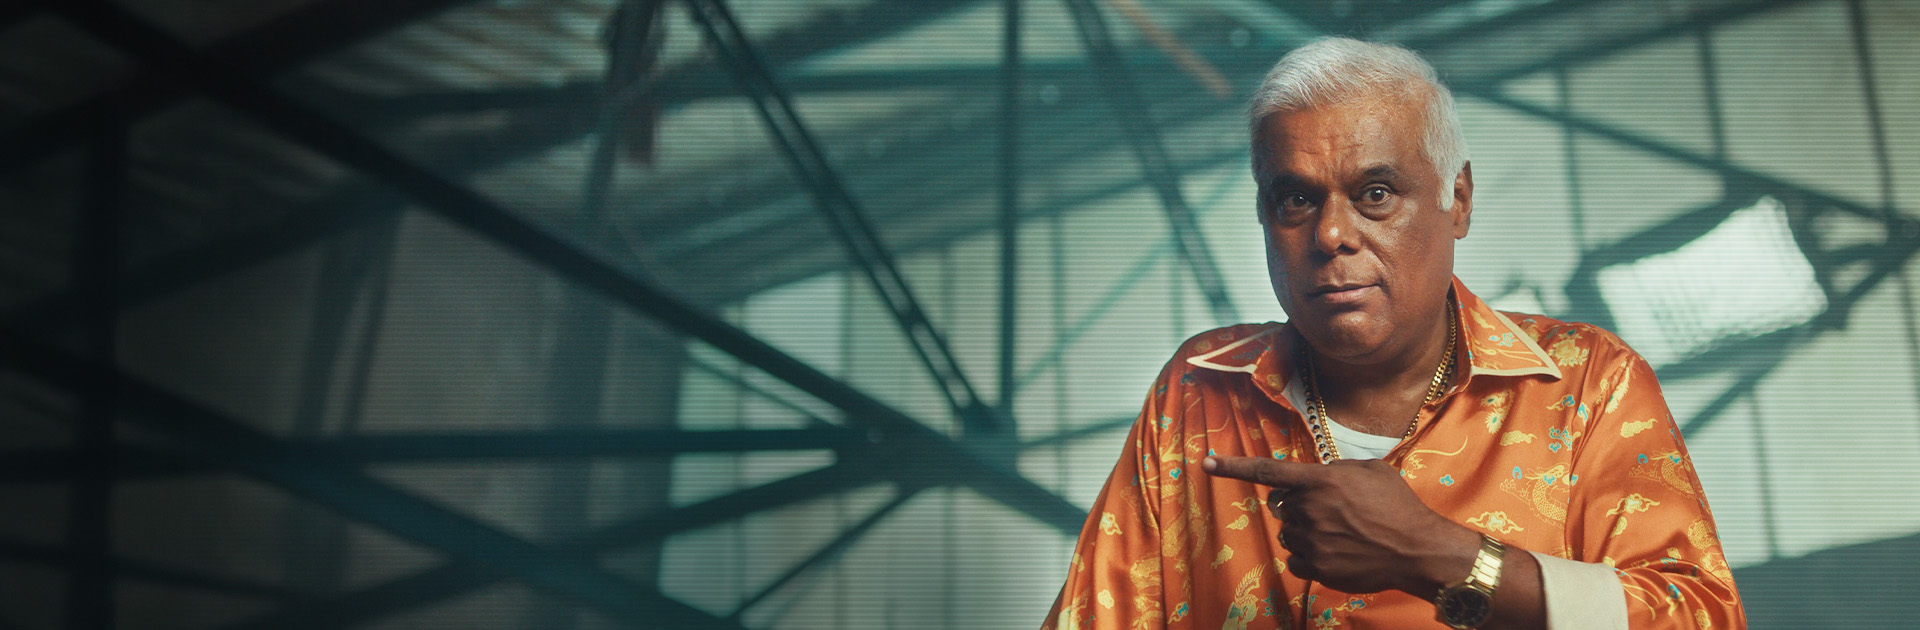
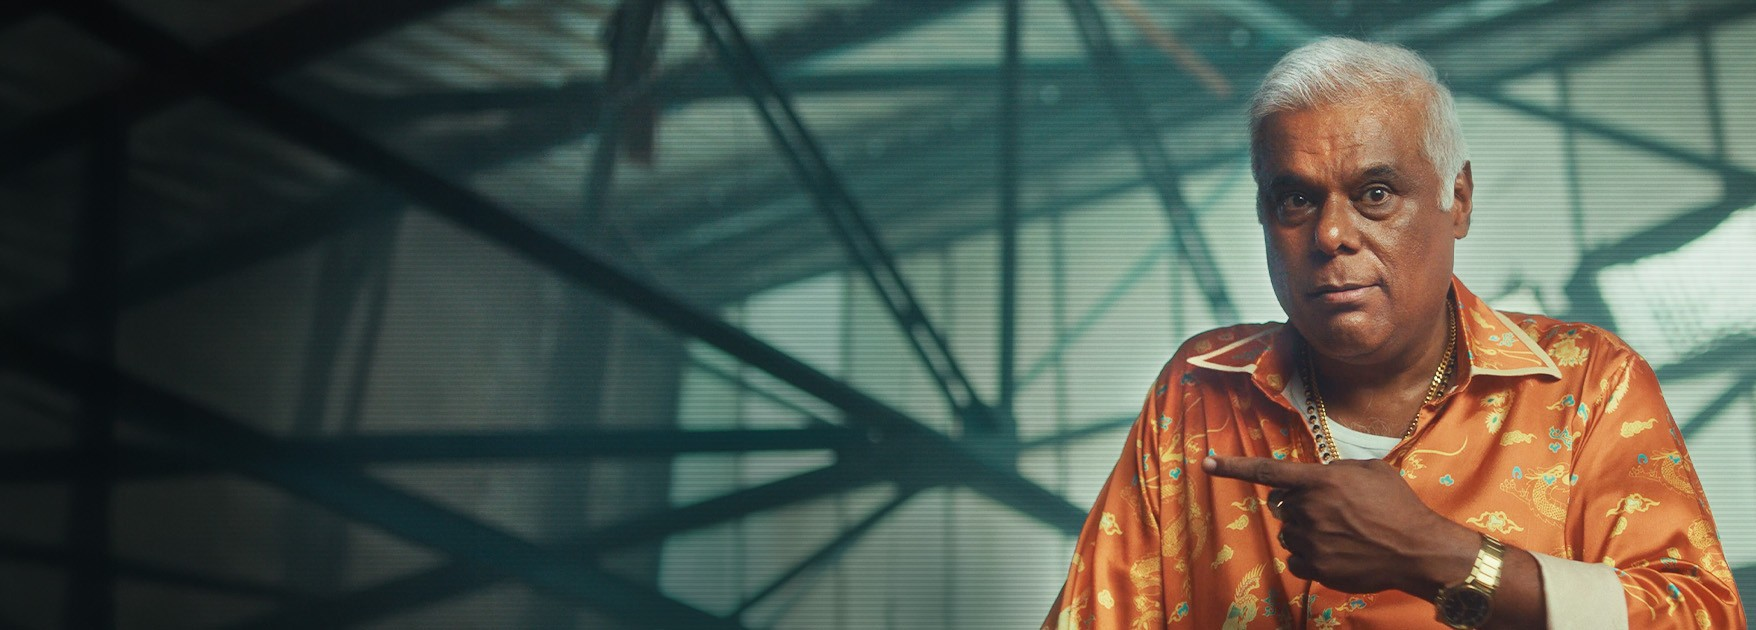
fix

diff --git a/tsbi/src/lib/caseStudies.ts b/tsbi/src/lib/caseStudies.ts
@@ -441,6 +441,24 @@ export const caseStudies: CaseStudyGalleryItem[] = [
     colorTheme: '#d4006a', accent: '#e8197d', gradFrom: '#2a0a1c', gradTo: '#14040e',
     image: '/tech/10.png', order: 31,
   },
+  {
+    id: 38, slug: 'happy-patel-khatarnak-jasoos', clientName: 'Happy Patel', title: 'Khatarnak Jasoos',
+    category: 'Film Marketing · Spy Comedy',
+    shortDescription: "A meme-zone social blitz matching the film's erratic spy-comedy tone — powered by Imran Khan's comeback, viral song reels, moment marketing and AI-led creative.",
+    concept: "The social strategy for Happy Patel: Khatarnak Jasoos mirrored the film's fun, erratic, chaotic spy-comedy tone — leaning into meme-style content, self-deprecating humour, quick relatable clips and organic, shareable integrations. The goal was to make the promotion entertaining in itself, turning social feeds into an extension of the movie's absurd, laugh-out-loud vibe.\n\nImran Khan's surprise comeback — his return after nearly a decade — was amplified across platforms, playing on nostalgia and curiosity with shareable content that framed his big-screen return. The feed stayed firmly in the 'meme zone': punchy dialogues, character memes, reaction clips and clumsy, self-roasting 'Happy Patel moments' built for easy sharing.\n\nMusic kept the energy viral — cool, street-styled lyrical videos and song promos for tracks like Aaj Banda Tere Liye Naachega, Phukt Apan and Chaanta Tera were cut as high-energy, meme-friendly reels perfect for user-generated content. Moment marketing rode timely trends, including the Dhurandhar craze, aligning the spy narrative with the culture of the moment, while AI-generated visuals added a surreal, tech-savvy edge true to the film's absurd humour.\n\nThe result: strong virality driven by humour and timeliness, positioning the film as a refreshing laugh riot and boosting awareness — especially among younger, digital-native audiences — without relying solely on traditional star power.",
+    year: 2025, services: ['Social Media Strategy', 'Meme Content', 'Song & Lyrical Reels', 'Moment Marketing', 'AI-Led Creative'],
+    colorTheme: '#e0641a', accent: '#f0841a', gradFrom: '#2a1400', gradTo: '#140a02',
+    image: YT('YEv0zokK140'), youtube: 'YEv0zokK140', order: 38,
+  },
+  {
+    id: 39, slug: 'ek-din', clientName: 'Ek Din', title: 'The Magic of One Day',
+    category: 'Film Marketing · Romance',
+    shortDescription: "A hopeless-romantic social world built on soulful lyrical videos, AI trend edits and dialogue moments — making the promotion an extension of the film's emotional core.",
+    concept: "For Ek Din, we immersed audiences in the film's hopeless-romantic tone through emotional, lyrical and trend-driven content — building a dreamy, relatable world around its themes of fleeting yet life-changing romance, transient connections and the magic of 'one day'. The focus stayed on emotion over gloss, pulling viewers straight into the film's feeling.\n\nBeautiful lyrical videos anchored the campaign — the Arijit Singh-led title track, 'Khwaab Dekhoon' and other Ram Sampath & Irshad Kamil compositions were set to soft visuals, poetic overlays and romantic montages that evoked love, longing and nostalgia.\n\nAI-led trends kept it fresh and shareable — Animal Crossing-style cozy animated interpretations and dreamy anime-inspired edits heightened the fantastical, emotional side of the love story for trend-driven younger audiences. Romance edits, dialogue snippets and slow-motion moments spotlighting Sai Pallavi and Junaid Khan's chemistry were designed to be saved, shared and personally tagged.\n\nThe approach made the promotion feel like an extension of the movie's emotional core — poetic, immersive and deeply romantic — standing out in a crowded Bollywood marketing landscape through creativity, trends and audience participation.",
+    year: 2025, services: ['Social Media Strategy', 'Lyrical Videos & Song Promos', 'AI Trend Content', 'Romance & Dialogue Edits'],
+    colorTheme: '#c4416e', accent: '#e0197d', gradFrom: '#2a0a1c', gradTo: '#150410',
+    image: YT('RCmyr_d3Hi0'), youtube: 'RCmyr_d3Hi0', order: 39,
+  },
 ];
 
 /** Tech / Digital Transformation case studies (subset of the full list). */

diff --git a/tsbi/src/app/services/content-production/page.tsx b/tsbi/src/app/services/content-production/page.tsx
@@ -180,6 +180,22 @@ The outcome: healthy oil leads to a healthy you. A healthy you gives you the opp
     videos: ['Mr8fSjgj-qI'],
     caseStudySlug: 'ashok-leyland-built-like-santa',
   },
+  {
+    client: 'Happy Patel',
+    category: 'Film Marketing / Spy Comedy',
+    title: 'Khatarnak Jasoos',
+    desc: "A meme-zone social strategy that mirrored the film's erratic spy-comedy tone — self-deprecating humour, punchy character memes and reaction clips built for sharing. Imran Khan's comeback was amplified for nostalgia and buzz, cool street-styled song reels kept it viral, moment marketing rode the Dhurandhar craze, and AI-generated visuals added a surreal, tech-savvy edge — a refreshing laugh riot that drove awareness among younger, digital-native audiences.",
+    videos: ['YEv0zokK140'],
+    caseStudySlug: 'happy-patel-khatarnak-jasoos',
+  },
+  {
+    client: 'Ek Din',
+    category: 'Film Marketing / Romance',
+    title: 'The Magic of One Day',
+    desc: "A hopeless-romantic social world built around the film's themes of fleeting, life-changing love. Soulful lyrical videos — the Arijit Singh title track, 'Khwaab Dekhoon' and other Ram Sampath & Irshad Kamil songs — set the emotional tone, while AI trend edits (Animal Crossing-style and dreamy anime looks) and slow-motion dialogue moments spotlighting Sai Pallavi and Junaid Khan made the promotion feel like an extension of the movie's emotional core.",
+    videos: ['RCmyr_d3Hi0'],
+    caseStudySlug: 'ek-din',
+  },
 ];
 
 const ticker =

diff --git a/tsbi/src/components/Nav.tsx b/tsbi/src/components/Nav.tsx
@@ -55,7 +55,7 @@ export default function Nav() {
       ` }} />
 
       <div className="nav-inner">
-        {/* Decorative sky-blue geometric line. */}
+        {/* Decorative sky-blue geometric line — commented out for now.
         <svg
           className="nav-svg header-blue-svg"
           width="1130"
@@ -70,6 +70,7 @@ export default function Nav() {
           <rect x="22" y="95" width="6" height="6" fill="#ff1aa0" />
           <circle className="header-blue-travel-dot" cx="25" cy="98" r="2.5" fill="#8ecbf0" />
         </svg>
+        */}
 
         {/* header-logo → GSAP fades in from opacity:0 scale:0.92 */}
         <Link href="/" className="nav-logo header-logo">

diff --git a/tsbi/src/components/Preloader.tsx b/tsbi/src/components/Preloader.tsx
@@ -101,3 +101,5 @@ export default function Preloader() {
     </div>
   );
 }
+
+

diff --git a/tsbi/src/components/media/MediaPageClient.tsx b/tsbi/src/components/media/MediaPageClient.tsx
@@ -56,7 +56,7 @@ function getCategory(title: string): string {
   return 'Industry Insights';
 }
 
-const PER_PAGE = 9;
+const PER_PAGE = 30;
 
 /* shared font helpers (matches the home page) */
 const FA = 'font-fa'; // Abril Fatface — display headings (same as home hero)